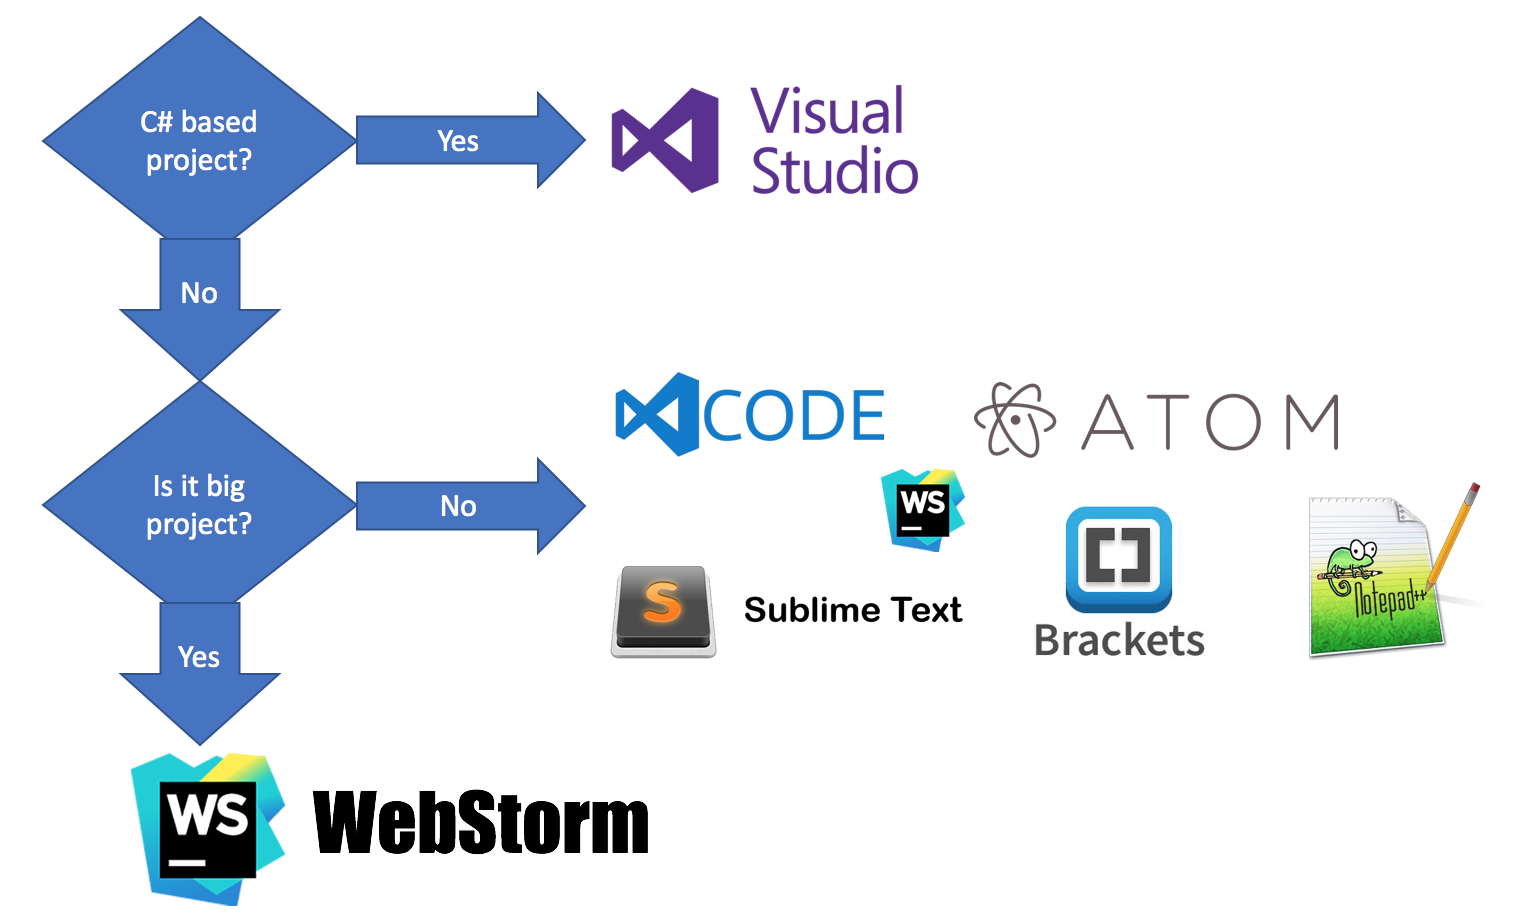
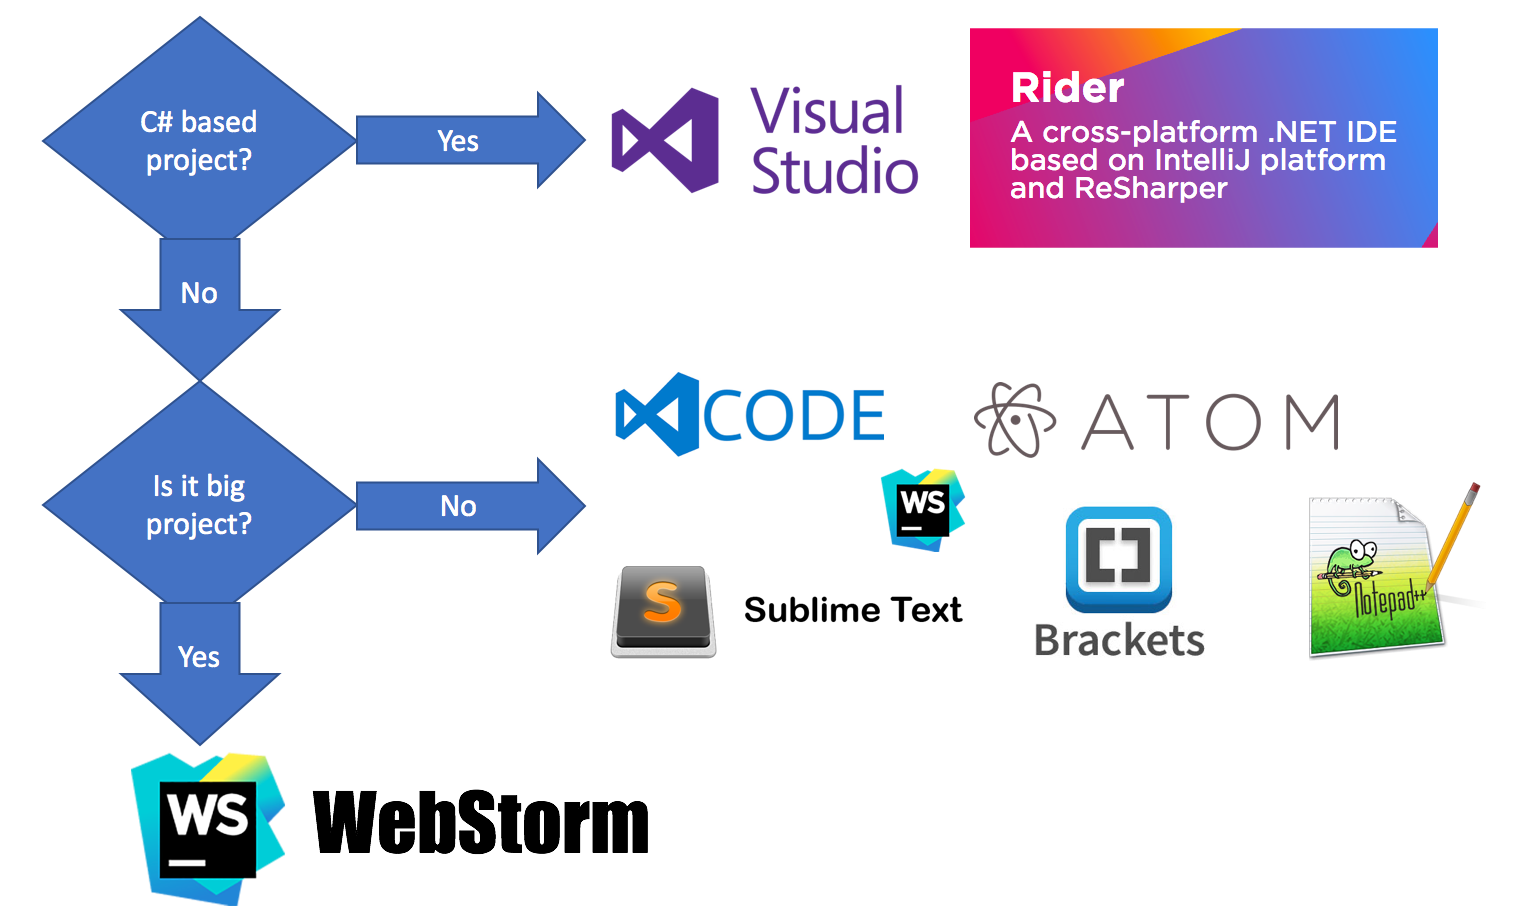
Add Rider to IDE / text editors slide

diff --git a/index.html b/index.html
@@ -27,12 +27,11 @@
 					<img src="img/sidekick.jpg" alt="Batman and Robin">
 				</section>
 				<section>
-					<p>What IDE or text editor should I choose?</p>
-					TODO: add Rider from jetbrains.com
+					<p style="margin: 0;">What IDE or text editor should I choose?</p>
 					<img src="img/editors.png" alt="IDE and text editors">
 				</section>
 				<section>
-					<h3>Recommended extensions / plugins / packages</h3>
+					<h3>Recommended extensions / plugins</h3>
 					<ol>
 						<li>
 							<a href="http://emmet.io">Emmet — the essential toolkit for web-developers</a>
